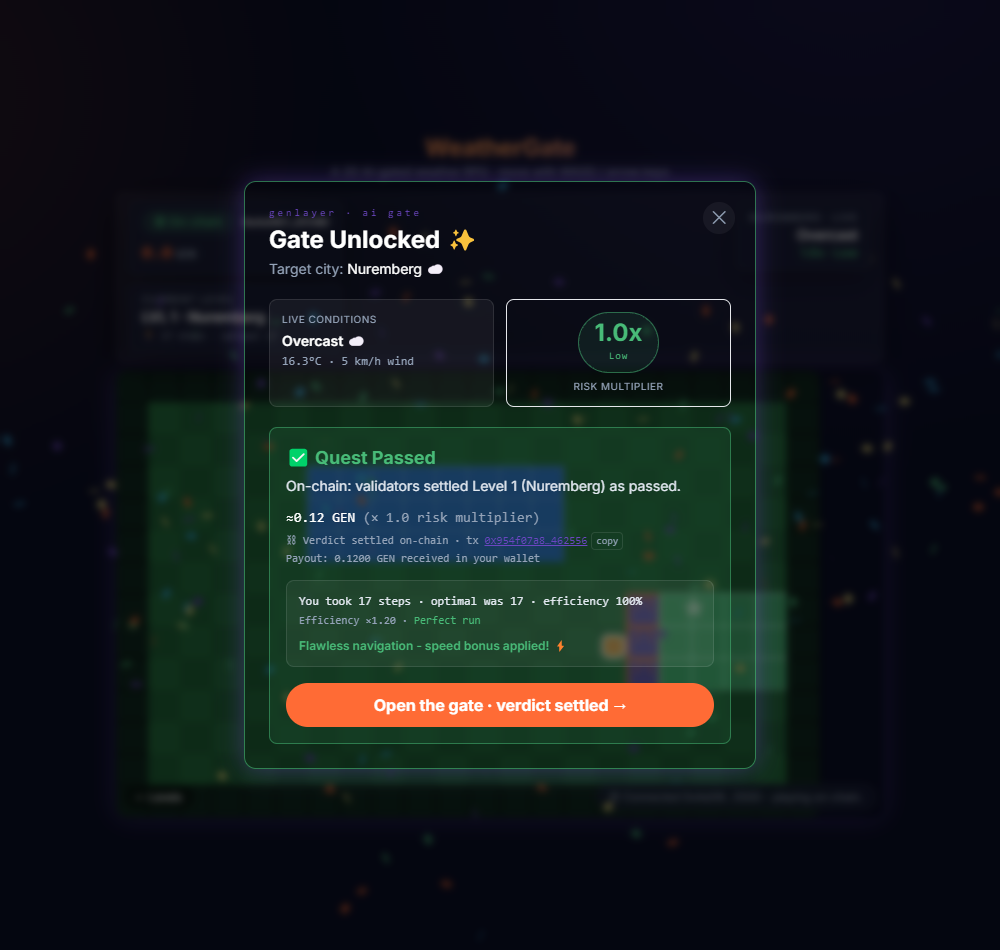
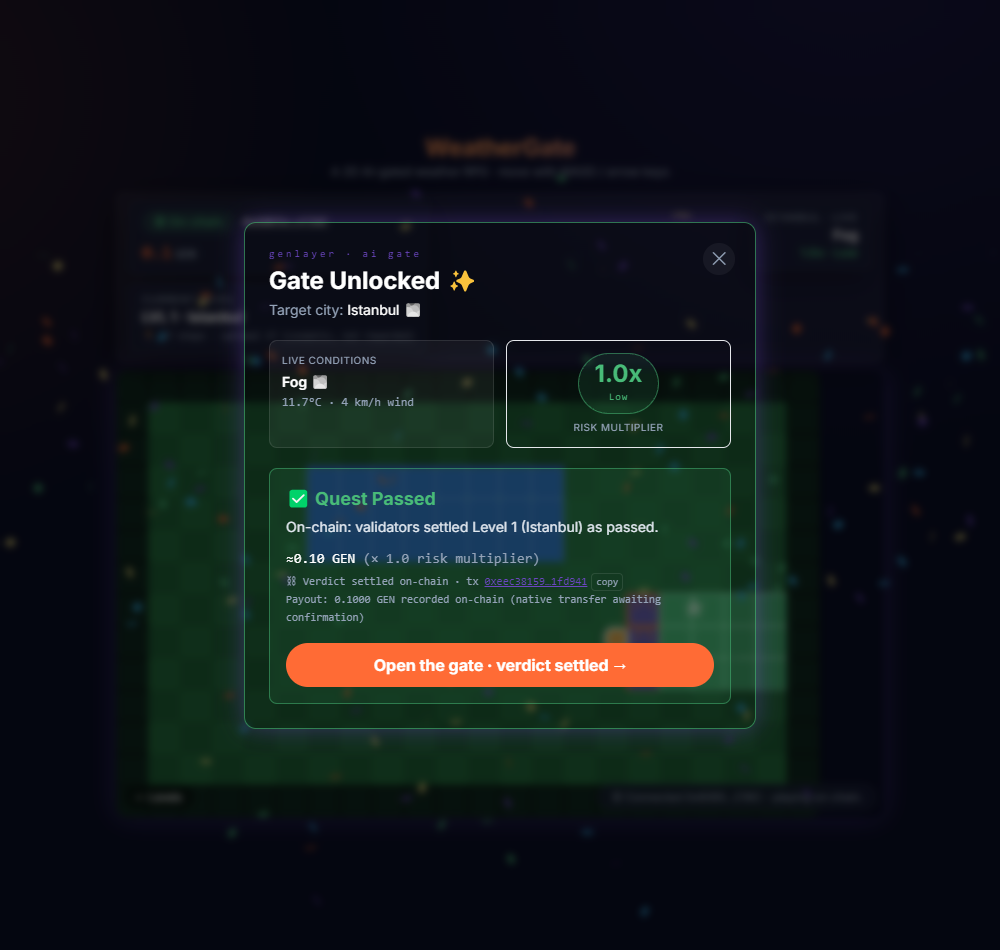
Add live-UI proof on the current contract + bundle check hardening
- Playwright run on the rebuilt Pages bundle (contract
  0x6028EB22...): Level 1 Istanbul, throwaway wallet
  0x6065e7E8834bCd01Ce64745A925498E6D6ecC16C, settlement tx
  0xeec38159e5c02a8b1aadaa7cef6ddba9a812de61b1cf051355bbd6f09b1fd941,
  Quest Passed in 51 s, full 66-char explorer link, preview 1.0x Low +
  ≈0.10 GEN == get_credit 0.1 GEN == native delta (0 -> 0.1), no reward
  sent / efficiency wording, 0 console errors. Screenshots ui-10..13.
- scripts/wq_ui_tx_verify.py: independent SDK re-check of the UI tx
  (FINALIZED / MAJORITY_AGREE / leader SUCCESS / 5 votes / 1 round /
  payout == base * mult // 100 exactly).
- Preserved the previous 0x599EA254 live-UI report as
  docs/ui-onchain-report-0599.json (byte-exact git blob snapshot).
- bundle_check.mjs + wq_live_bundle.py: also crawl Vite "./chunk.js"
  dynamic-import refs (live bundle now fully crawled: 4 assets, new
  address present, all four previous deployments absent).
- onchain_write.mjs: capture the settlement line and scan the visible
  page text for forbidden reward wording.
- README §12c + SUBMISSION: record the live-UI proof and fix stale
  evidence references.

diff --git a/scripts/wq_ui_tx_verify.py b/scripts/wq_ui_tx_verify.py
@@ -1,0 +1,89 @@
+"""Independently verify a UI-submitted StudioNet tx with the GenLayer SDK.
+
+Usage: python scripts/wq_ui_tx_verify.py <tx_hash> <wallet_address>
+
+Checks (all printed, nothing assumed):
+  - get_transaction lifecycle status + consensus result name
+  - leader receipt execution_result / result_status (must be SUCCESS)
+  - num_of_rounds + validator votes recorded
+  - get_credit(wallet) on the current contract equals the expected payout
+    payout = base(level) * multiplier_x100 // 100 with level = 1 (Istanbul run
+    from the live UI): base 0.1 GEN, multiplier derived from the credit itself.
+One blocking RPC call per poll, 25s between polls, 300s hard deadline, and it
+stops after 3 unchanged polls (network rules). Reads GENLAYER_PRIVATE_KEY only
+from this project's own .env; never prints it.
+"""
+import os
+import sys
+import time
+
+from dotenv import load_dotenv
+from eth_account import Account
+from genlayer_py import create_client, studionet
+
+ROOT = os.path.abspath(os.path.join(os.path.dirname(__file__), ".."))
+load_dotenv(os.path.join(ROOT, ".env"))
+
+ADDR = os.environ.get(
+    "WQ_CONTRACT_ADDRESS", "0x6028EB222937cd0Bd881c85260E1e0F11330a0A3"
+)
+GEN = 10**18
+LEVEL_BASE_GEN = (0, 10, 12, 15, 20, 25, 30, 35, 50, 75, 100)
+POLL, DEADLINE, MAX_SAME = 25, 300, 3
+
+tx_hash = sys.argv[1]
+wallet = sys.argv[2]
+lvl = int(sys.argv[3]) if len(sys.argv) > 3 else 1
+acct = Account.from_key(os.environ["GENLAYER_PRIVATE_KEY"])
+client = create_client(chain=studionet, account=acct)
+
+prev = None
+same = 0
+start = time.time()
+raw = None
+while True:
+    raw = client.get_transaction(tx_hash)
+    status = raw.get("status_name")
+    result = raw.get("result_name")
+    print("[%4ds] tx=%s status=%s result=%s" % (int(time.time() - start), tx_hash[:14] + "...", status, result))
+    if status in ("FINALIZED", "UNDETERMINED", "CANCELED"):
+        break
+    key = (status, result)
+    if key == prev:
+        same += 1
+        if same >= MAX_SAME:
+            print("NO CHANGE x3, stopping and reporting current state")
+            break
+    else:
+        same = 0
+    prev = key
+    if time.time() - start > DEADLINE:
+        print("300s deadline reached, reporting current state")
+        break
+    time.sleep(POLL)
+
+cd = raw.get("consensus_data") or {}
+leader = (cd.get("leader_receipt") or [{}])[0]
+lres = leader.get("result") or {}
+lr = raw.get("last_round") or {}
+votes = lr.get("validator_votes") or []
+rounds = raw.get("num_of_rounds")
+print("leader_execution_result=%s leader_result_status=%s votes=%s rounds=%s" % (
+    leader.get("execution_result"), lres.get("status"), len(votes), rounds))
+
+credit = client.read_contract(ADDR, "get_credit", args=[wallet])
+atto = int(credit.get("credit_atto", 0))
+base = LEVEL_BASE_GEN[lvl] * GEN // 100
+mult = atto * 100 // base if base else 0
+exact = base * mult // 100
+print("wallet=%s level=%d base_atto=%d credit_atto=%d derived_mult_x100=%d" % (wallet, lvl, base, atto, mult))
+print("payout == base*mult//100: %s (expected %d)" % (exact == atto, exact))
+print("STATUS=%s RESULT=%s" % (status, result))
+ok = (
+    status == "FINALIZED"
+    and str(result).endswith("MAJORITY_AGREE")
+    and str(leader.get("execution_result")).endswith("SUCCESS")
+    and len(votes) >= 5
+    and atto > 0 and exact == atto and 100 <= mult <= 500
+)
+print("VERDICT:", "PASS" if ok else "CHECK")

diff --git a/scripts/wq_live_bundle.py b/scripts/wq_live_bundle.py
@@ -47,7 +47,7 @@ new_hits = []
 old_hits = []
 queue = list(js)
 guard = 0
-while queue and guard < 30:
+while queue and guard < 40:
     guard += 1
     name = queue.pop(0)
     if name in fetched:
@@ -67,9 +67,14 @@ while queue and guard < 30:
     if present_old:
         old_hits.append((name, present_old))
     # follow further chunk references inside this asset
-    for deeper in re.findall(r"assets/[A-Za-z0-9_-]+\.js", body):
+    for deeper in re.findall(r"assets/[A-Za-z0-9_.-]+\.js", body):
         if deeper not in fetched:
             queue.append(deeper)
+    # Vite dynamic-import refs appear as "./name.js" relative to assets/
+    for deeper in re.findall(r"""["']\./([A-Za-z0-9_.-]+\.js)["']""", body):
+        nm = "assets/" + deeper
+        if nm not in fetched:
+            queue.append(nm)
 
 print("assets crawled:", len(fetched))
 print("contain NEW:", new_hits or "NONE")

diff --git a/SUBMISSION.md b/SUBMISSION.md
@@ -128,7 +128,7 @@ https://github.com/hoveiser/weatherquest
 | GenLayer contract | Complete | `contracts/weatherquest.py` - 15 public methods (marketplace + progressive campaign + on-chain credit ledger) with a deterministic weather multiplier and NO caller-controlled step or efficiency term in the reward path; passes `genvm-lint check` (lint + validate). |
 | Contract deployment | Deployed to StudioNet | Address `0x6028EB222937cd0Bd881c85260E1e0F11330a0A3` (reviewer-fix redeploy: `complete_level(level, city, action)` with no step/efficiency args, all levels 1-10 bound to their fixed campaign city (level 1 Istanbul), marketplace escrow disabled, payout = `base(level) * multiplier_x100 // 100` paid as native GEN + mirrored in a credit ledger); deploy tx `0xfa180c40…b84cac`, house funded 30 GEN via `0x5aa7266a…479ce`; reproducible via `scripts/wq_deploy_native.py` / `scripts/wq_round.py`. Superseded: `0x599EA254...` (native-GEN redeploy, pre-reviewer-fix), `0x2d764187...` (credit stopgap), `0x8fc4bc48...` (`get_contract_at` payouts that no-oped). |
 | On-chain verification round | Executed (StudioNet, current contract `0x6028EB22...`) | `scripts/wq_round.py`: 12/12 credited `complete_level` successes (level-1 Istanbul from 3 distinct fresh wallets + levels 2-10 once each), every one `MAJORITY_AGREE`, 5/5 votes, 1 consensus round (no rotation), `payout == base * multiplier_x100 // 100` exactly with the credit delta equal to the payout; time to `ACCEPTED` min 21.7 s / median 22.0 s / max 43.5 s. Wrong-city and already-completed calls reverted `[EXPECTED]`; a 5-arg `complete_level` call against the new 3-arg ABI finalized with a leader `contract_error` and 0 credit; a Low-tier gibberish action was rejected (0 credit, not completed). Evidence: `docs/round_results.json` + `docs/round_summary_new.json`. Prior rounds: native GEN delivery 6/6 on `0x599EA254...` (`docs/final_verify.json`) and a 26-run credit round on `0x2d764187...` (`docs/round_results.json`, README §12a/§12b), including six Medium-tier `success=false` rejects. |
[2 lines of base64/hex data omitted]
 | Direct-mode tests | Executed - 114 pass | `pytest tests/direct/` run in-environment after installing the real SDK (`genlayer-py`+`genlayer-test`); 42 direct-mode contract tests + 72 validator-logic tests (deterministic risk, exact-consistency helpers, relevance-gate rejection + fail-closed, reviewer-fix tests: equal-step args rejected + no 1.2x boost, identical payout across two fresh wallets, static source scan for efficiency/step terms, 3-arg signature check). On Windows the pinned `gltest` loader hits a temp-file `PermissionError`; a Windows-only `os.unlink` shim in `conftest.py` (and `scripts/wq_run_tests.py`) runs all 114 locally, and Linux CI runs them unshimmed as the authority. |
 | Open-Meteo integration | ✅ Verified | Geocoding + forecast endpoints return the expected `results` / `current` shapes (confirmed live in-browser). |
 | 2D game (Kaboom.js) | ✅ Complete & builds | `frontend/src/Game.tsx` - tile field (grass/river/wall/gate/victory), WASD+arrow movement, AABB collision, gate + victory triggers. |
@@ -140,7 +140,7 @@ https://github.com/hoveiser/weatherquest
 | Wallet hybrid | ✅ Demo default + SDK live | "Connect GenLayer Wallet" uses the `genlayer-js` SDK (lazy-loaded, code-split out of the demo bundle) for on-chain reads/writes; Demo Mode stays fully playable with `localStorage` progress. |
 | Logo / icon | ✅ Complete | `frontend/public/` - `logo.svg` + PNGs (512², 128, 64 favicon). |
 | Demo video | ✅ Produced | `media/demo.mp4` (1920×1080) via `scripts/build_demo.sh` + `docs/captions.srt`. YouTube upload is **[TBD]**. |
-| Frontend deployment | Live + Playwright-verified | https://hoveiser.github.io/weatherquest/ (GitHub Pages); loads with 0 console errors, full movement/gate/demo/wallet flows. The deployed bundle is verified end-to-end in `docs/ui-onchain-report.json` (real on-chain `complete_level`, native 0 -> 0.12 GEN delta). P2 renders the FULL 66-character settlement + explorer links; the Pages workflow rebuilds with `VITE_CONTRACT_ADDRESS=0x6028EB222937cd0Bd881c85260E1e0F11330a0A3` so the published bundle matches the current contract. |
+| Frontend deployment | Live + Playwright-verified | https://hoveiser.github.io/weatherquest/ (GitHub Pages); loads with 0 console errors, full movement/gate/demo/wallet flows. The deployed bundle is verified end-to-end in `docs/ui-onchain-report.json` (real on-chain `complete_level` against `0x6028EB22...`, native 0 -> 0.1 GEN delta). P2 renders the FULL 66-character settlement + explorer links; the Pages workflow rebuilds with `VITE_CONTRACT_ADDRESS=0x6028EB222937cd0Bd881c85260E1e0F11330a0A3` so the published bundle matches the current contract (verified: new address present, all four previous deployments absent from every crawled chunk). |
 
 ### Honest verification caveats
 - **Direct-mode tests were executed and all 114 pass.** One harness-only shim
@@ -153,10 +153,11 @@ https://github.com/hoveiser/weatherquest
   settlement heuristic in `lib/contract.ts`, which mirrors the contract's rules and reads the same
   live Open-Meteo data, but is **not** the authoritative on-chain result. The `genlayer-js` SDK is now
   wired in `lib/genlayer.ts`: the in-game "Connect GenLayer Wallet" button switches the same call
-  sites to real on-chain play, and a live-UI `complete_level` was settled on StudioNet against the
-  previous contract `0x599EA254...` on the published Pages bundle (tx `0x954f07a8…3462556`, native
-  balance 0 -> 0.12 GEN, `docs/ui-onchain-report.json`); the same proof is re-run against the current
-  contract after the Pages rebuild.
+  sites to real on-chain play, and a live-UI `complete_level` has been settled on StudioNet on the
+  published Pages bundle against the current contract `0x6028EB22...` (tx `0xeec38159…b1fd941`,
+  native balance 0 -> 0.1 GEN, `docs/ui-onchain-report.json`); the earlier proof against the
+  previous contract `0x599EA254...` (tx `0x954f07a8…3462556`, 0 -> 0.12 GEN) is preserved in
+  `docs/ui-onchain-report-0599.json`.
   The Pages build bakes only
   `VITE_CONTRACT_ADDRESS` (not `VITE_ONCHAIN`), so reviewers still get the funded-wallet-free demo
   unless they connect.
@@ -167,7 +168,8 @@ https://github.com/hoveiser/weatherquest
   the same weather snapshot. The same boundary table as the Python tests is unit-tested in
   `frontend/tests/risk.test.mjs` (10/10 pass). It is still labelled "preview" because the
   authoritative value is the one validators agree on-chain. The earlier Istanbul `1.4x`-vs-`0.12 GEN`
-  divergence is fixed by this port (a live-site screenshot after the Pages deploy is captured in P5).
+  divergence is fixed by this port; the live-site preview-equals-payout screenshot was captured
+  after the Pages deploy (see README §12c live-UI proof).
 - **Native GEN delivery to the wallet is now verified on StudioNet** (correcting the earlier claim
   here). The old `gl.get_contract_at(eoa).emit_transfer(...)` path failed `Contract not found` on
   every triggered tx (0/14, `docs/p1_triggered_txs.json`) because it is an internal IC->IC message

diff --git a/README.md b/README.md
@@ -310,9 +310,9 @@ See `SUBMISSION.md` for the fill-in submission fields and the verification outco
   GEN amount uses the same `base(level) * multiplier_x100 / 100` formula (no step/efficiency term).
   The same boundary table used by the Python tests is unit-tested in
   `frontend/tests/risk.test.mjs` (10/10 pass with the bundled Node), so the displayed tier, multiplier
-  and GEN for a given weather snapshot match the contract. A live-site screenshot confirming the
-  Istanbul preview equals the on-chain payout for the same run is captured under `docs/` after the
-  Pages deploy (P5).
+  and GEN for a given weather snapshot match the contract. The live-site screenshot confirming the
+  Istanbul preview equals the on-chain payout for the same run is captured after the Pages deploy
+  (see the live-UI proof bullet in §12c).
 - **StudioNet DOES credit recipient EOA native balances for the campaign payout.** An earlier
   conclusion that it could not was WRONG and is corrected here: the blocker was the API, not
   the network. `gl.get_contract_at(eoa).emit_transfer(...)` sends an internal IC->IC message
@@ -368,6 +368,23 @@ Every case uses a fresh throwaway account (StudioNet is gasless). Payout is veri
   (step-count payout manipulation) is fully closed even under injection, but the AI judgment itself
   is not injection-proof in this instance (see §13 findings). Record: `inject_L1_Istanbul`, tx
[1 lines of base64/hex data omitted]
+- **Live-UI proof on the current bundle** (`tools/pwtest/onchain_write.mjs`, evidence
+  `docs/ui-onchain-report.json`, screenshots `docs/ui-13-gate-preview.png`,
+  `docs/ui-10-onchain-verdict.png`, `docs/ui-12-settlement-proof.png`,
+  `docs/ui-11-onchain-unlocked.png`). After the Pages rebuild, the LIVE site was driven
+  end-to-end with a freshly generated throwaway wallet (`0x6065e7E8834bCd01Ce64745A925498E6D6ecC16C`,
+  private key generated in-memory, never printed or stored). Level 1 Istanbul, sensible action:
+  preview badge `1.0x · Low` and settlement line `≈0.10 GEN (× 1.0 risk multiplier)`; UI reached
+  `Quest Passed` after 51 s with settlement tx
[1 lines of base64/hex data omitted]
+  the FULL 66-character hash (`hash_href_full66: true`) and opens the Studio explorer in a new
+  tab; payout line reads `Payout: 0.1000 GEN recorded on-chain ...` with NO "reward sent" and NO
+  efficiency/steps wording anywhere on the page (`forbidden_wording_hits: []`); 0 console errors.
+  The wallet's NATIVE balance measured straight from the node moved 0 -> 0.1 GEN (delta == the
+  shown payout). Independent SDK re-check (`scripts/wq_ui_tx_verify.py`): that tx is `FINALIZED` /
+  `MAJORITY_AGREE`, leader `SUCCESS`, 5 votes, 1 consensus round, and `get_credit(wallet)` =
+  100000000000000000 atto = exactly `base(1) * 100 / 100` (derived multiplier 1.00, matching the
+  UI preview).
 
 ### 12a. Native-payout + relevance round (previous contract `0x599EA254...`, pre-reviewer-fix)
 
@@ -387,7 +404,7 @@ This round proves the two things the earlier credit round could not: native GEN 
 the player EOA, and the relevance gate rejects gibberish while keeping the single LLM call and
 exact validator consensus.
 
-**Live-UI proof (`tools/pwtest/onchain_write.mjs`, evidence `docs/ui-onchain-report.json`).** The
+**Live-UI proof (`tools/pwtest/onchain_write.mjs`, evidence snapshot `docs/ui-onchain-report-0599.json`; the live file `docs/ui-onchain-report.json` now records the current-contract run in §12c).** The
 published GitHub Pages bundle (https://hoveiser.github.io/weatherquest/) is driven end-to-end by
 Playwright with a freshly generated throwaway wallet (private key never printed or stored) whose
 `eth_sendTransaction` is relayed to StudioNet. Level 1, sensible action, Low weather: wallet
@@ -498,11 +515,12 @@ contract; all 14 such triggered transfers failed `Contract not found` (evidence 
 the 26 runs above are 26/26 `MAJORITY_AGREE`, 1 consensus round (no rotation), 5-of-5 votes.
 
 **Live UI Playwright test.** The on-chain settlement made through the UI against the PREVIOUS
-contract (`0x3cca45ee...`, hash recorded in `docs/ui-onchain-report.json`) still shows the old
+contract (`0x3cca45ee...`, hash recorded in the git history of `docs/ui-onchain-report.json`, which
+later runs have since overwritten) still showed the old
 truncated `…be0607` form. P2 rewires the UI so the settlement and payout links carry the full
-66-character hash; the same Playwright harness in `tools/pwtest/` is re-run against the new
-bundle (contract `0x2d764187A908d1677510c5E7FE69e8e7C1810299`) once GitHub Pages publishes the
-deploy from P6, and its screenshots land under `docs/` (`ui-*.png`). The credit-delivery
+66-character hash; the same Playwright harness in `tools/pwtest/` has since been re-run against
+each newer published bundle (most recently against `0x6028EB22...`, see §12c), with screenshots
+under `docs/` (`ui-*.png`). The credit-delivery
 themselves are already verified on-chain (SDK, not UI) via the p3 rows above, and the
[1 lines of base64/hex data omitted]
 `MAJORITY_AGREE` with `get_credit(player) = 0.12 GEN` and the house unchanged at 30.0 GEN.
